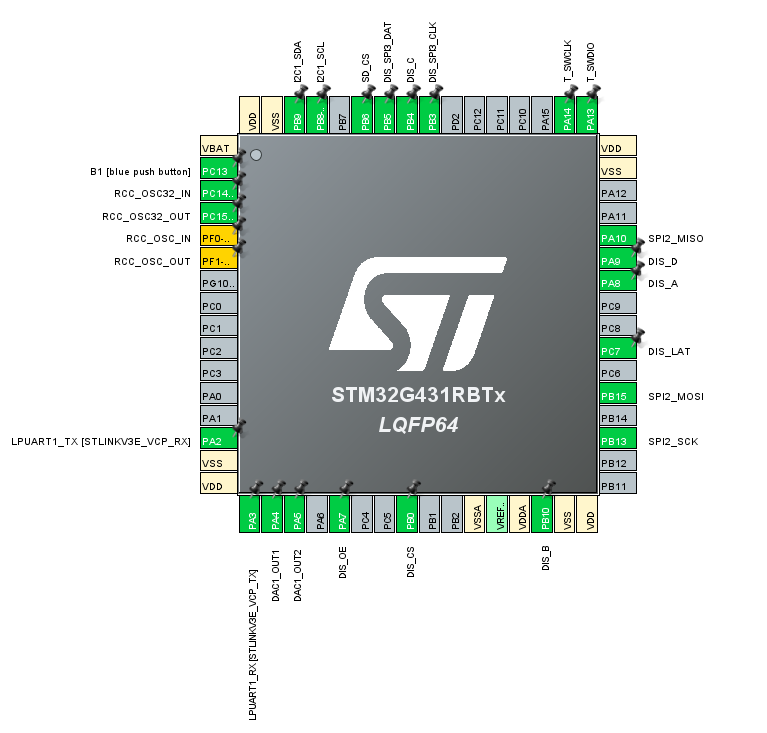
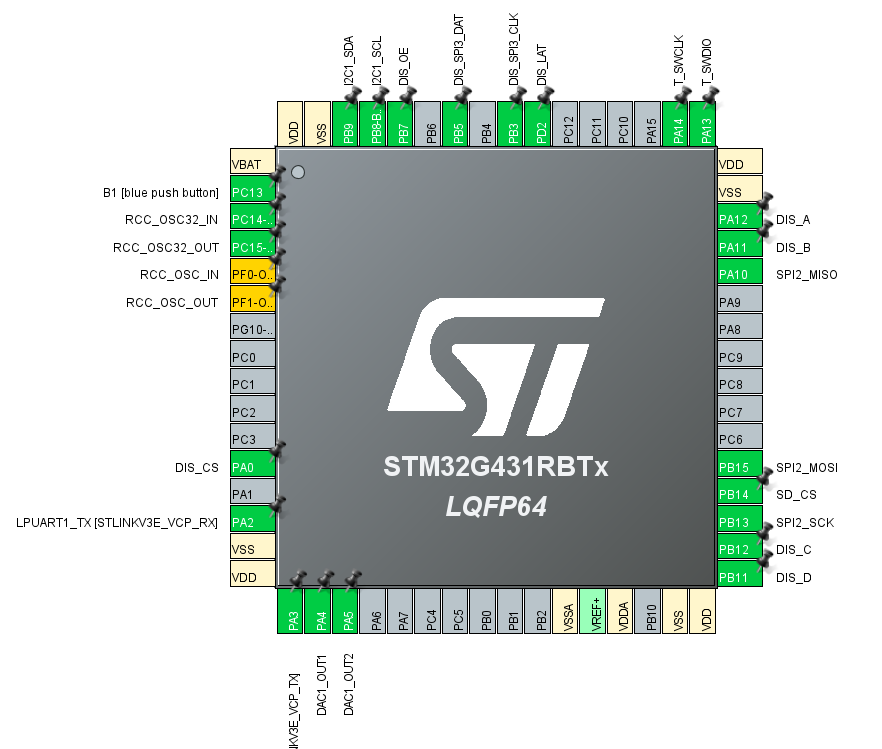
change pinout

Changed region(s): [[0.03, 0.03, 0.9596, 1.0], [0.03, 0.6003, 0.06, 0.6303]]

diff --git a/MatrixTest/Core/Src/main.c b/MatrixTest/Core/Src/main.c
@@ -41,15 +41,15 @@
 /* USER CODE BEGIN PD */
 
 #if 1	//PWM on OE
-#define DIS_OE_ON(_val)	(__HAL_TIM_SET_COMPARE(&htim3, TIM_CHANNEL_2, _val))
-#define DIS_OE_OFF()	(__HAL_TIM_SET_COMPARE(&htim3, TIM_CHANNEL_2, 0))
+#define DIS_OE_ON(_val)	(__HAL_TIM_SET_COMPARE(&htim3, TIM_CHANNEL_4, _val))
+#define DIS_OE_OFF()	(__HAL_TIM_SET_COMPARE(&htim3, TIM_CHANNEL_4, 0))
 
 #else
 #define DIS_OE_ON(_val)	(HAL_GPIO_WritePin(DIS_OE_GPIO_Port, DIS_OE_Pin, GPIO_PIN_RESET))
 #define DIS_OE_OFF()	(HAL_GPIO_WritePin(DIS_OE_GPIO_Port, DIS_OE_Pin, GPIO_PIN_SET))
 #endif
 
-#define DIS_BRIGHTNESS(_val)	(__HAL_TIM_SET_COMPARE(&htim3, TIM_CHANNEL_3, _val))
+#define DIS_BRIGHTNESS(_val)	(__HAL_TIM_SET_COMPARE(&htim3, TIM_CHANNEL_3, _val))	//not yet
 
 /* USER CODE END PD */
 
@@ -200,7 +200,6 @@ int main(void)
 
 	//PlayerStart("Afire.MP3");
 	//PlayerStart("Take my breath away.mp3");
-	//PlayerStart("tmba.MP3");
 	//PlayerStart("lmoyzly.mp3");
 
 	//__HAL_TIM_SET_COMPARE(&htim2, TIM_CHANNEL_1, 50);
@@ -305,7 +304,7 @@ int main(void)
 	if (playerGo == 2)
 	{
 		playerGo = 0;
-		PlayerStart("tmba.mp3");
+		PlayerStart("Take my breath away.mp3");
 	}
 	PlayerUpdate();
   }
@@ -757,7 +756,7 @@ static void MX_TIM3_Init(void)
   /* USER CODE END TIM3_Init 1 */
   htim3.Instance = TIM3;
   htim3.Init.Prescaler = 42;
-  htim3.Init.CounterMode = TIM_COUNTERMODE_UP;
+  htim3.Init.CounterMode = TIM_COUNTERMODE_DOWN;
   htim3.Init.Period = 255;
   htim3.Init.ClockDivision = TIM_CLOCKDIVISION_DIV1;
   htim3.Init.AutoReloadPreload = TIM_AUTORELOAD_PRELOAD_DISABLE;
@@ -775,7 +774,7 @@ static void MX_TIM3_Init(void)
   sConfigOC.Pulse = 0;
   sConfigOC.OCPolarity = TIM_OCPOLARITY_LOW;
   sConfigOC.OCFastMode = TIM_OCFAST_DISABLE;
-  if (HAL_TIM_PWM_ConfigChannel(&htim3, &sConfigOC, TIM_CHANNEL_2) != HAL_OK)
+  if (HAL_TIM_PWM_ConfigChannel(&htim3, &sConfigOC, TIM_CHANNEL_4) != HAL_OK)
   {
     Error_Handler();
   }
@@ -865,15 +864,16 @@ static void MX_GPIO_Init(void)
   __HAL_RCC_GPIOF_CLK_ENABLE();
   __HAL_RCC_GPIOA_CLK_ENABLE();
   __HAL_RCC_GPIOB_CLK_ENABLE();
+  __HAL_RCC_GPIOD_CLK_ENABLE();
 
   /*Configure GPIO pin Output Level */
-  HAL_GPIO_WritePin(GPIOB, DIS_CS_Pin|DIS_B_Pin|DIS_C_Pin|SD_CS_Pin, GPIO_PIN_RESET);
+  HAL_GPIO_WritePin(GPIOA, DIS_CS_Pin|DIS_B_Pin|DIS_A_Pin, GPIO_PIN_RESET);
+
+  /*Configure GPIO pin Output Level */
+  HAL_GPIO_WritePin(GPIOB, DIS_D_Pin|DIS_C_Pin|SD_CS_Pin, GPIO_PIN_RESET);
 
   /*Configure GPIO pin Output Level */
   HAL_GPIO_WritePin(DIS_LAT_GPIO_Port, DIS_LAT_Pin, GPIO_PIN_RESET);
-
-  /*Configure GPIO pin Output Level */
-  HAL_GPIO_WritePin(GPIOA, DIS_A_Pin|DIS_D_Pin, GPIO_PIN_RESET);
 
   /*Configure GPIO pin : B1_Pin */
   GPIO_InitStruct.Pin = B1_Pin;
@@ -881,33 +881,26 @@ static void MX_GPIO_Init(void)
   GPIO_InitStruct.Pull = GPIO_NOPULL;
   HAL_GPIO_Init(B1_GPIO_Port, &GPIO_InitStruct);
 
-  /*Configure GPIO pins : DIS_CS_Pin DIS_B_Pin DIS_C_Pin */
-  GPIO_InitStruct.Pin = DIS_CS_Pin|DIS_B_Pin|DIS_C_Pin;
+  /*Configure GPIO pins : DIS_CS_Pin DIS_B_Pin DIS_A_Pin */
+  GPIO_InitStruct.Pin = DIS_CS_Pin|DIS_B_Pin|DIS_A_Pin;
   GPIO_InitStruct.Mode = GPIO_MODE_OUTPUT_PP;
   GPIO_InitStruct.Pull = GPIO_NOPULL;
-  GPIO_InitStruct.Speed = GPIO_SPEED_FREQ_HIGH;
+  GPIO_InitStruct.Speed = GPIO_SPEED_FREQ_LOW;
+  HAL_GPIO_Init(GPIOA, &GPIO_InitStruct);
+
+  /*Configure GPIO pins : DIS_D_Pin DIS_C_Pin SD_CS_Pin */
+  GPIO_InitStruct.Pin = DIS_D_Pin|DIS_C_Pin|SD_CS_Pin;
+  GPIO_InitStruct.Mode = GPIO_MODE_OUTPUT_PP;
+  GPIO_InitStruct.Pull = GPIO_NOPULL;
+  GPIO_InitStruct.Speed = GPIO_SPEED_FREQ_LOW;
   HAL_GPIO_Init(GPIOB, &GPIO_InitStruct);
 
   /*Configure GPIO pin : DIS_LAT_Pin */
   GPIO_InitStruct.Pin = DIS_LAT_Pin;
   GPIO_InitStruct.Mode = GPIO_MODE_OUTPUT_PP;
   GPIO_InitStruct.Pull = GPIO_NOPULL;
-  GPIO_InitStruct.Speed = GPIO_SPEED_FREQ_HIGH;
-  HAL_GPIO_Init(DIS_LAT_GPIO_Port, &GPIO_InitStruct);
-
-  /*Configure GPIO pins : DIS_A_Pin DIS_D_Pin */
-  GPIO_InitStruct.Pin = DIS_A_Pin|DIS_D_Pin;
-  GPIO_InitStruct.Mode = GPIO_MODE_OUTPUT_PP;
-  GPIO_InitStruct.Pull = GPIO_NOPULL;
-  GPIO_InitStruct.Speed = GPIO_SPEED_FREQ_HIGH;
-  HAL_GPIO_Init(GPIOA, &GPIO_InitStruct);
-
-  /*Configure GPIO pin : SD_CS_Pin */
-  GPIO_InitStruct.Pin = SD_CS_Pin;
-  GPIO_InitStruct.Mode = GPIO_MODE_OUTPUT_PP;
-  GPIO_InitStruct.Pull = GPIO_NOPULL;
   GPIO_InitStruct.Speed = GPIO_SPEED_FREQ_LOW;
-  HAL_GPIO_Init(SD_CS_GPIO_Port, &GPIO_InitStruct);
+  HAL_GPIO_Init(DIS_LAT_GPIO_Port, &GPIO_InitStruct);
 
   /* EXTI interrupt init*/
   HAL_NVIC_SetPriority(EXTI15_10_IRQn, 0, 0);

diff --git a/MatrixTest/Core/Inc/main.h b/MatrixTest/Core/Inc/main.h
@@ -65,34 +65,34 @@ void SystemClock_Config(void);
 #define B1_Pin GPIO_PIN_13
 #define B1_GPIO_Port GPIOC
 #define B1_EXTI_IRQn EXTI15_10_IRQn
+#define DIS_CS_Pin GPIO_PIN_0
+#define DIS_CS_GPIO_Port GPIOA
 #define LPUART1_TX_Pin GPIO_PIN_2
 #define LPUART1_TX_GPIO_Port GPIOA
 #define LPUART1_RX_Pin GPIO_PIN_3
 #define LPUART1_RX_GPIO_Port GPIOA
-#define DIS_OE_Pin GPIO_PIN_7
-#define DIS_OE_GPIO_Port GPIOA
-#define DIS_CS_Pin GPIO_PIN_0
-#define DIS_CS_GPIO_Port GPIOB
-#define DIS_B_Pin GPIO_PIN_10
-#define DIS_B_GPIO_Port GPIOB
-#define DIS_LAT_Pin GPIO_PIN_7
-#define DIS_LAT_GPIO_Port GPIOC
-#define DIS_A_Pin GPIO_PIN_8
+#define DIS_D_Pin GPIO_PIN_11
+#define DIS_D_GPIO_Port GPIOB
+#define DIS_C_Pin GPIO_PIN_12
+#define DIS_C_GPIO_Port GPIOB
+#define SD_CS_Pin GPIO_PIN_14
+#define SD_CS_GPIO_Port GPIOB
+#define DIS_B_Pin GPIO_PIN_11
+#define DIS_B_GPIO_Port GPIOA
+#define DIS_A_Pin GPIO_PIN_12
 #define DIS_A_GPIO_Port GPIOA
-#define DIS_D_Pin GPIO_PIN_9
-#define DIS_D_GPIO_Port GPIOA
 #define T_SWDIO_Pin GPIO_PIN_13
 #define T_SWDIO_GPIO_Port GPIOA
 #define T_SWCLK_Pin GPIO_PIN_14
 #define T_SWCLK_GPIO_Port GPIOA
+#define DIS_LAT_Pin GPIO_PIN_2
+#define DIS_LAT_GPIO_Port GPIOD
 #define DIS_SPI3_CLK_Pin GPIO_PIN_3
 #define DIS_SPI3_CLK_GPIO_Port GPIOB
-#define DIS_C_Pin GPIO_PIN_4
-#define DIS_C_GPIO_Port GPIOB
 #define DIS_SPI3_DAT_Pin GPIO_PIN_5
 #define DIS_SPI3_DAT_GPIO_Port GPIOB
-#define SD_CS_Pin GPIO_PIN_6
-#define SD_CS_GPIO_Port GPIOB
+#define DIS_OE_Pin GPIO_PIN_7
+#define DIS_OE_GPIO_Port GPIOB
 /* USER CODE BEGIN Private defines */
 #define MIN(a,b) (((a)<(b))? (a):(b))
 

diff --git a/MatrixTest/Core/Src/stm32g4xx_hal_msp.c b/MatrixTest/Core/Src/stm32g4xx_hal_msp.c
@@ -697,15 +697,15 @@ void HAL_TIM_MspPostInit(TIM_HandleTypeDef* htim)
 
   /* USER CODE END TIM3_MspPostInit 0 */
 
-    __HAL_RCC_GPIOA_CLK_ENABLE();
+    __HAL_RCC_GPIOB_CLK_ENABLE();
     /**TIM3 GPIO Configuration
-    PA7     ------> TIM3_CH2
+    PB7     ------> TIM3_CH4
     */
     GPIO_InitStruct.Pin = DIS_OE_Pin;
     GPIO_InitStruct.Mode = GPIO_MODE_AF_PP;
     GPIO_InitStruct.Pull = GPIO_NOPULL;
-    GPIO_InitStruct.Speed = GPIO_SPEED_FREQ_HIGH;
-    GPIO_InitStruct.Alternate = GPIO_AF2_TIM3;
+    GPIO_InitStruct.Speed = GPIO_SPEED_FREQ_LOW;
+    GPIO_InitStruct.Alternate = GPIO_AF10_TIM3;
     HAL_GPIO_Init(DIS_OE_GPIO_Port, &GPIO_InitStruct);
 
   /* USER CODE BEGIN TIM3_MspPostInit 1 */
